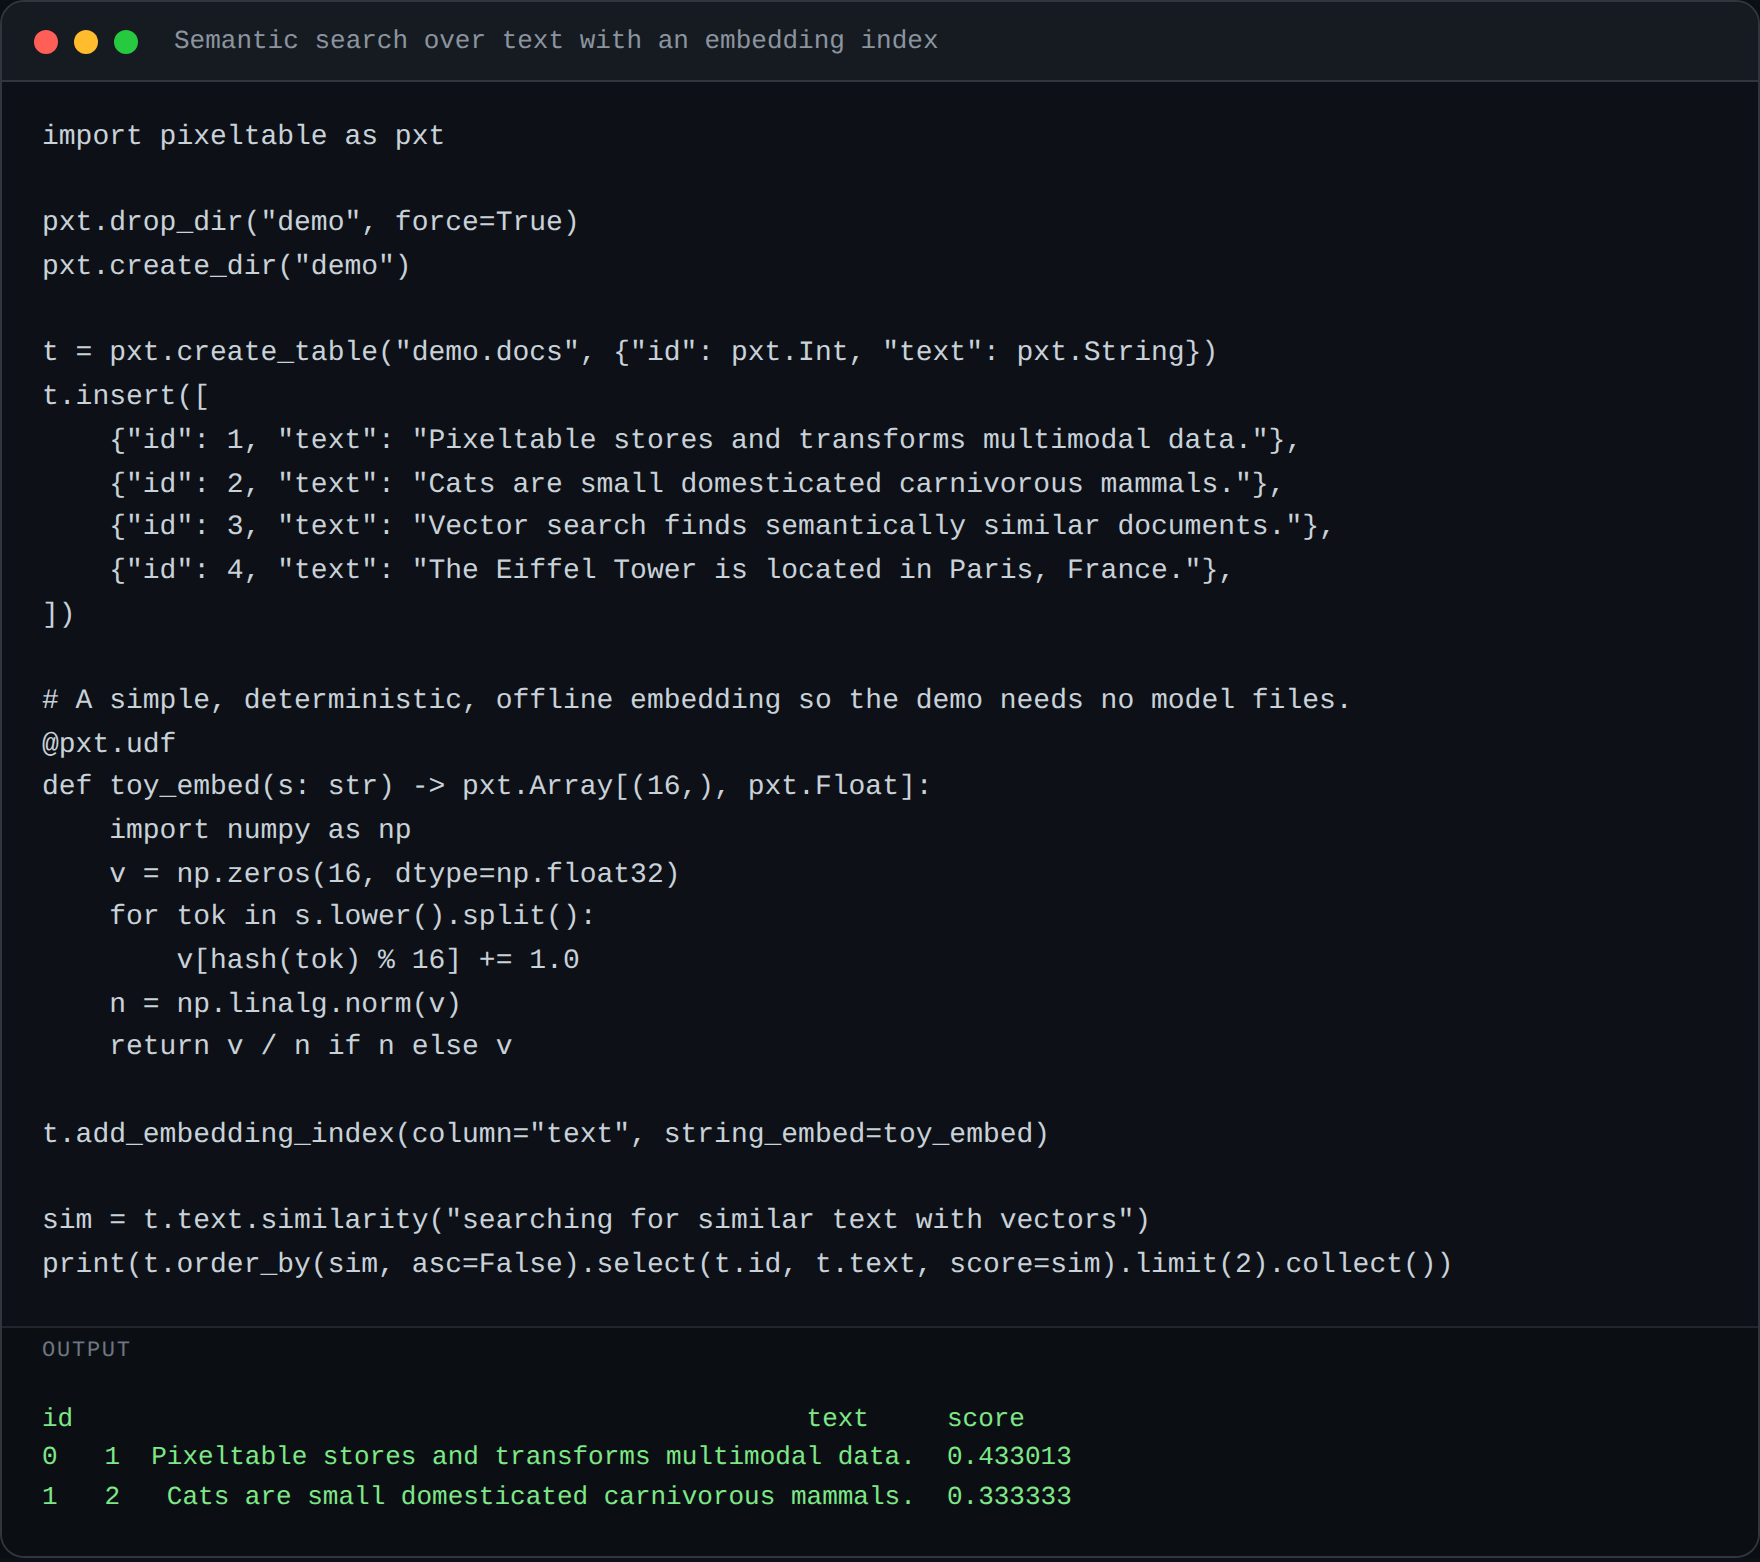
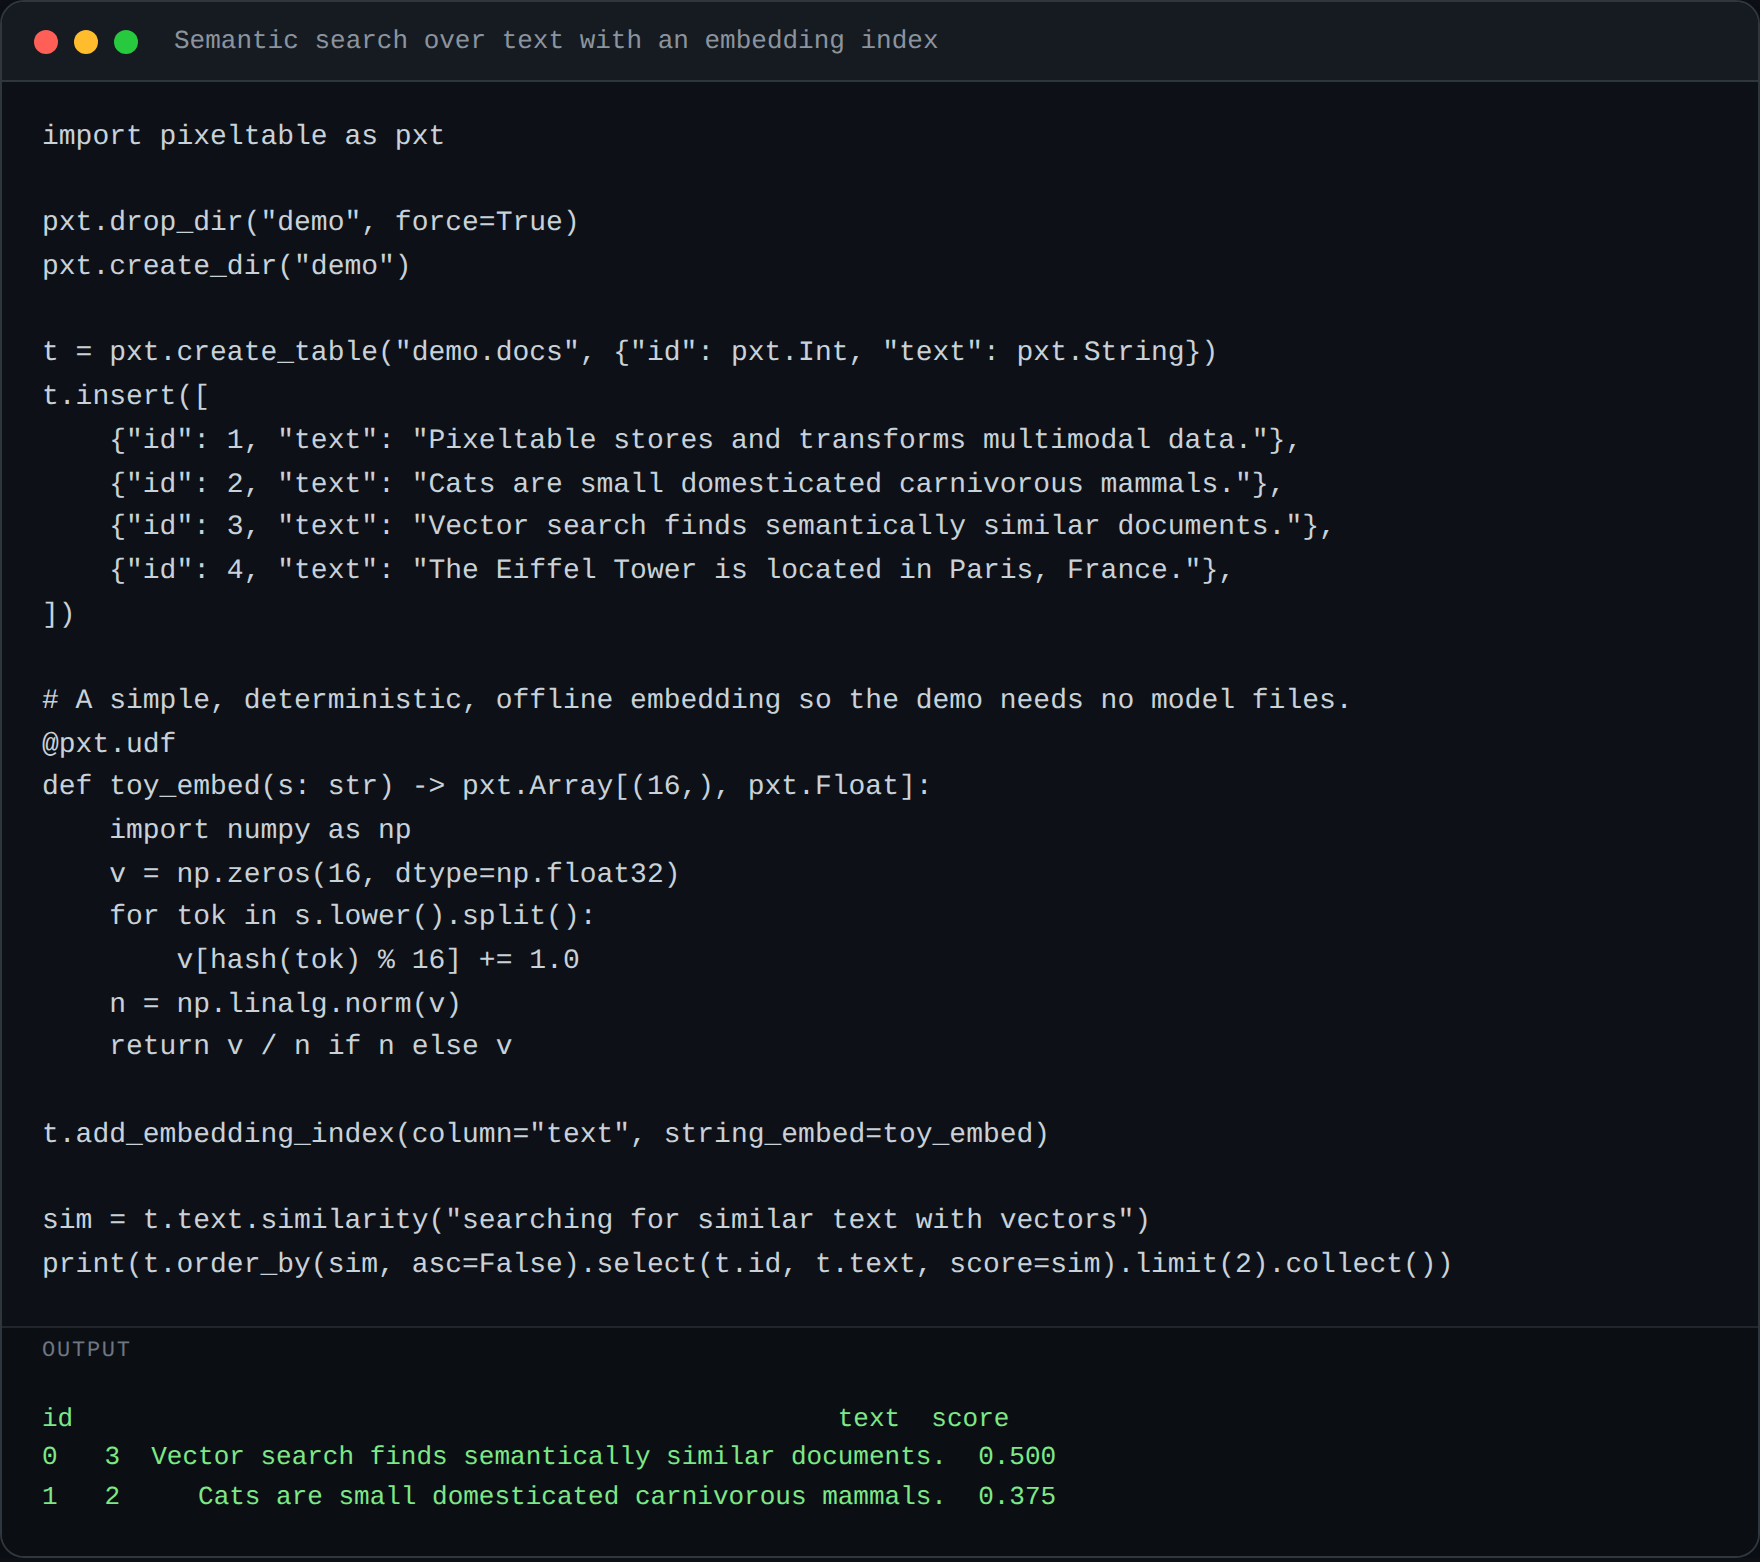
Publish site 2026-09-08T14:00Z

Changed region(s): [[0.0625, 0.8912, 0.625, 0.9834]]

diff --git a/posts/unimate-one-unified-model-to-animate-diverse-skeletons.html b/posts/unimate-one-unified-model-to-animate-diverse-skeletons.html
@@ -70,11 +70,11 @@ sim = t.text.similarity("searching for similar text with vectors")
 print(t.order_by(sim, asc=False).select(t.id, t.text, score=sim).limit(2).collect())
 </code></pre>
 <p>Run it and you get real output — here's the actual result captured from this
-exact snippet (ran in 5.32s):</p>
+exact snippet (ran in 5.4s):</p>
 <p><img alt="Semantic search over text with an embedding index" src="https://chrisclone.github.io/pixeltable-content-feed/assets/unimate-one-unified-model-to-animate-diverse-skeletons/example.png"></p>
-<pre><code>id                                               text     score
-0   1  Pixeltable stores and transforms multimodal data.  0.433013
-1   2   Cats are small domesticated carnivorous mammals.  0.333333
+<pre><code>id                                                 text  score
+0   3  Vector search finds semantically similar documents.  0.500
+1   2     Cats are small domesticated carnivorous mammals.  0.375
 </code></pre>
 <p>That's not a mockup. The code above executed against Pixeltable and produced
 that table. Swap the toy pieces (a UDF, a local embedding) for production ones —
